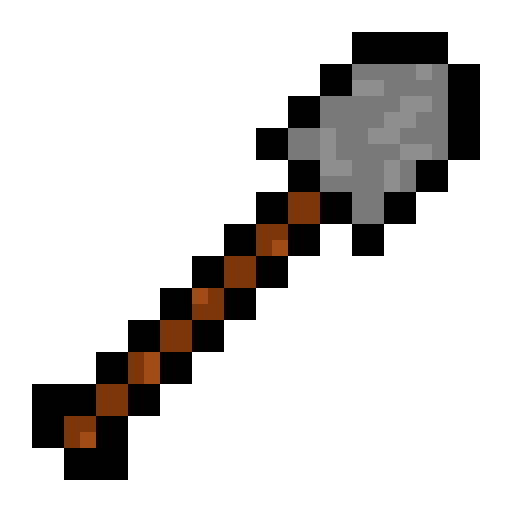
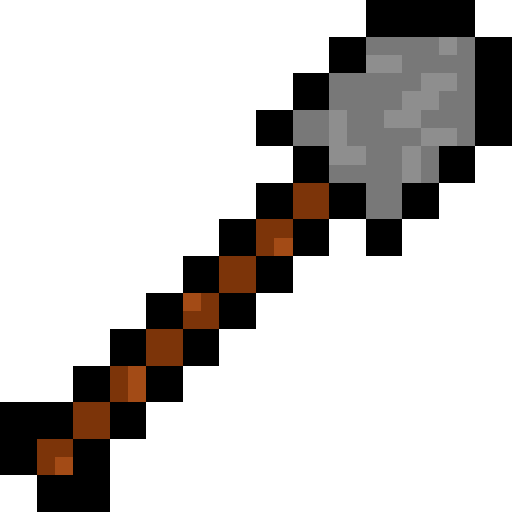
Added the money counter in the top right corner for the market screen

Changed region(s): [[0.4375, 0.0, 1.0, 0.5625], [0.0, 0.4375, 0.5625, 1.0]]

diff --git a/core/src/com/mygdx/game/Market.java b/core/src/com/mygdx/game/Market.java
@@ -5,11 +5,13 @@ import com.badlogic.gdx.InputMultiplexer;
 import com.badlogic.gdx.Screen;
 import com.badlogic.gdx.assets.AssetManager;
 import com.badlogic.gdx.graphics.Camera;
+import com.badlogic.gdx.graphics.Color;
 import com.badlogic.gdx.graphics.GL20;
 import com.badlogic.gdx.graphics.OrthographicCamera;
 import com.badlogic.gdx.graphics.Texture;
 import com.badlogic.gdx.graphics.g2d.BitmapFont;
 import com.badlogic.gdx.graphics.g2d.SpriteBatch;
+import com.badlogic.gdx.graphics.g2d.freetype.FreeTypeFontGenerator;
 import com.badlogic.gdx.input.GestureDetector;
 import com.badlogic.gdx.math.Vector2;
 import com.badlogic.gdx.scenes.scene2d.InputEvent;
@@ -19,6 +21,9 @@ import com.badlogic.gdx.scenes.scene2d.Touchable;
 import com.badlogic.gdx.scenes.scene2d.ui.ImageButton;
 import com.badlogic.gdx.scenes.scene2d.ui.Skin;
 import com.badlogic.gdx.scenes.scene2d.ui.Table;
+
+import static com.badlogic.gdx.graphics.g3d.particles.ParticleShader.Setters.screenWidth;
+import static com.mygdx.game.ProjectOdyssey.moneys;
 
 /**
  * Created by guymc on 11/30/2017.
@@ -48,8 +53,8 @@ public class Market implements Screen, GestureDetector.GestureListener{
     private Table marketTable;
     private boolean sellMode = true;
 
-
-
+    private BitmapFont moneyCounter = new BitmapFont(); //For drawing text
+    private int screenWidth = Gdx.graphics.getWidth(); //Variable with screen width in it
 
     private Texture logo;
     OrthographicCamera camera;
@@ -57,6 +62,14 @@ public class Market implements Screen, GestureDetector.GestureListener{
         this.game = game;
         stage = new Stage();
         batch = new SpriteBatch();
+
+        //This is for creating the text on the screen
+        FreeTypeFontGenerator generator = new FreeTypeFontGenerator(Gdx.files.internal("fonts/century.ttf"));
+        FreeTypeFontGenerator.FreeTypeFontParameter parameter = new FreeTypeFontGenerator.FreeTypeFontParameter();
+        parameter.size = 80;
+        parameter.characters = "abcdefghijklmnopqrstuvwxyzABCDEFGHIJKLMNOPQRSTUVWXYZ0123456789.!'()>?:$ ";
+        moneyCounter = generator.generateFont(parameter); // font size 80 pixels
+        generator.dispose(); // don't forget to dispose to avoid memory leaks!
 
         camera = new OrthographicCamera();//creates camera
         camera.setToOrtho(false, 800, 480);//creates viewport
@@ -224,7 +237,7 @@ public class Market implements Screen, GestureDetector.GestureListener{
 
         // Button skin
         Skin shovelButtonSkin = new Skin();
-        shovelButtonSkin.add("shovelButton", new Texture("buttons/market_arrow.png"));
+        shovelButtonSkin.add("shovelButton", new Texture("Market/Shovel.png"));
 
         // Create button style
         ImageButton.ImageButtonStyle shovelButtonStyle = new ImageButton.ImageButtonStyle();
@@ -338,16 +351,33 @@ public class Market implements Screen, GestureDetector.GestureListener{
 
     @Override
     public void render(float delta) {
-        Gdx.gl.glClearColor(0, 1, 0, 1);
+        Gdx.gl.glClearColor(1, 1, 1, 1);
         Gdx.gl.glClear(GL20.GL_COLOR_BUFFER_BIT);
         game.batch.setProjectionMatrix(camera.combined);
-        game.batch.begin();
-        game.font.draw(game.batch, "You have " + ProjectOdyssey.shovel + " shovels.", 100, 200);
-        game.font.draw(game.batch, "You have " + ProjectOdyssey.snowBall + " snowballs.", 100, 175);
-        game.font.draw(game.batch, "You have " + ProjectOdyssey.bucket + " buckets.", 100, 150);
-        game.font.draw(game.batch, "You have " + ProjectOdyssey.moneys + " money.", 100, 125);
-        game.font.draw(game.batch, "You have " + ProjectOdyssey.ice + " ice.", 100, 100);
-        game.batch.end();
+        batch.begin(); //Begin printing money counter
+        moneyCounter.setColor(Color.BLACK); //money counter text color
+        if (moneys < 10) {
+            moneyCounter.draw(batch, "$" + ProjectOdyssey.moneys, ((int)(.9 * screenWidth)), 1750); //Position of money counter when x<10
+        }
+        else if (moneys > 999999) {
+            moneyCounter.draw(batch, "$" + ProjectOdyssey.moneys, ((int)(.62 * screenWidth)), 1750); //Position of money counter when x>999999
+        }
+        else if (moneys > 99999) {
+            moneyCounter.draw(batch, "$" + ProjectOdyssey.moneys, ((int)(.67 * screenWidth)), 1750); //Position of money counter when x>99999
+        }
+        else if (moneys > 9999) {
+            moneyCounter.draw(batch, "$" + ProjectOdyssey.moneys, ((int)(.71 * screenWidth)), 1750); //Position of money counter when x>9999
+        }
+        else if (moneys > 999) {
+            moneyCounter.draw(batch, "$" + ProjectOdyssey.moneys, ((int)(.76 * screenWidth)), 1750); //Position of money counter when x>999
+        }
+        else if (moneys > 99) {
+            moneyCounter.draw(batch, "$" + ProjectOdyssey.moneys, ((int)(.81 * screenWidth)), 1750); //Position of money counter when x>99
+        }
+        else if (moneys > 9) {
+            moneyCounter.draw(batch, "$" + ProjectOdyssey.moneys, ((int)(.85 * screenWidth)), 1750); //Position of money counter when x>9
+        }
+        batch.end();
         batch.begin();
         sellIce.draw(batch, 1);//draw button, opacity
         if (sellMode == true){
